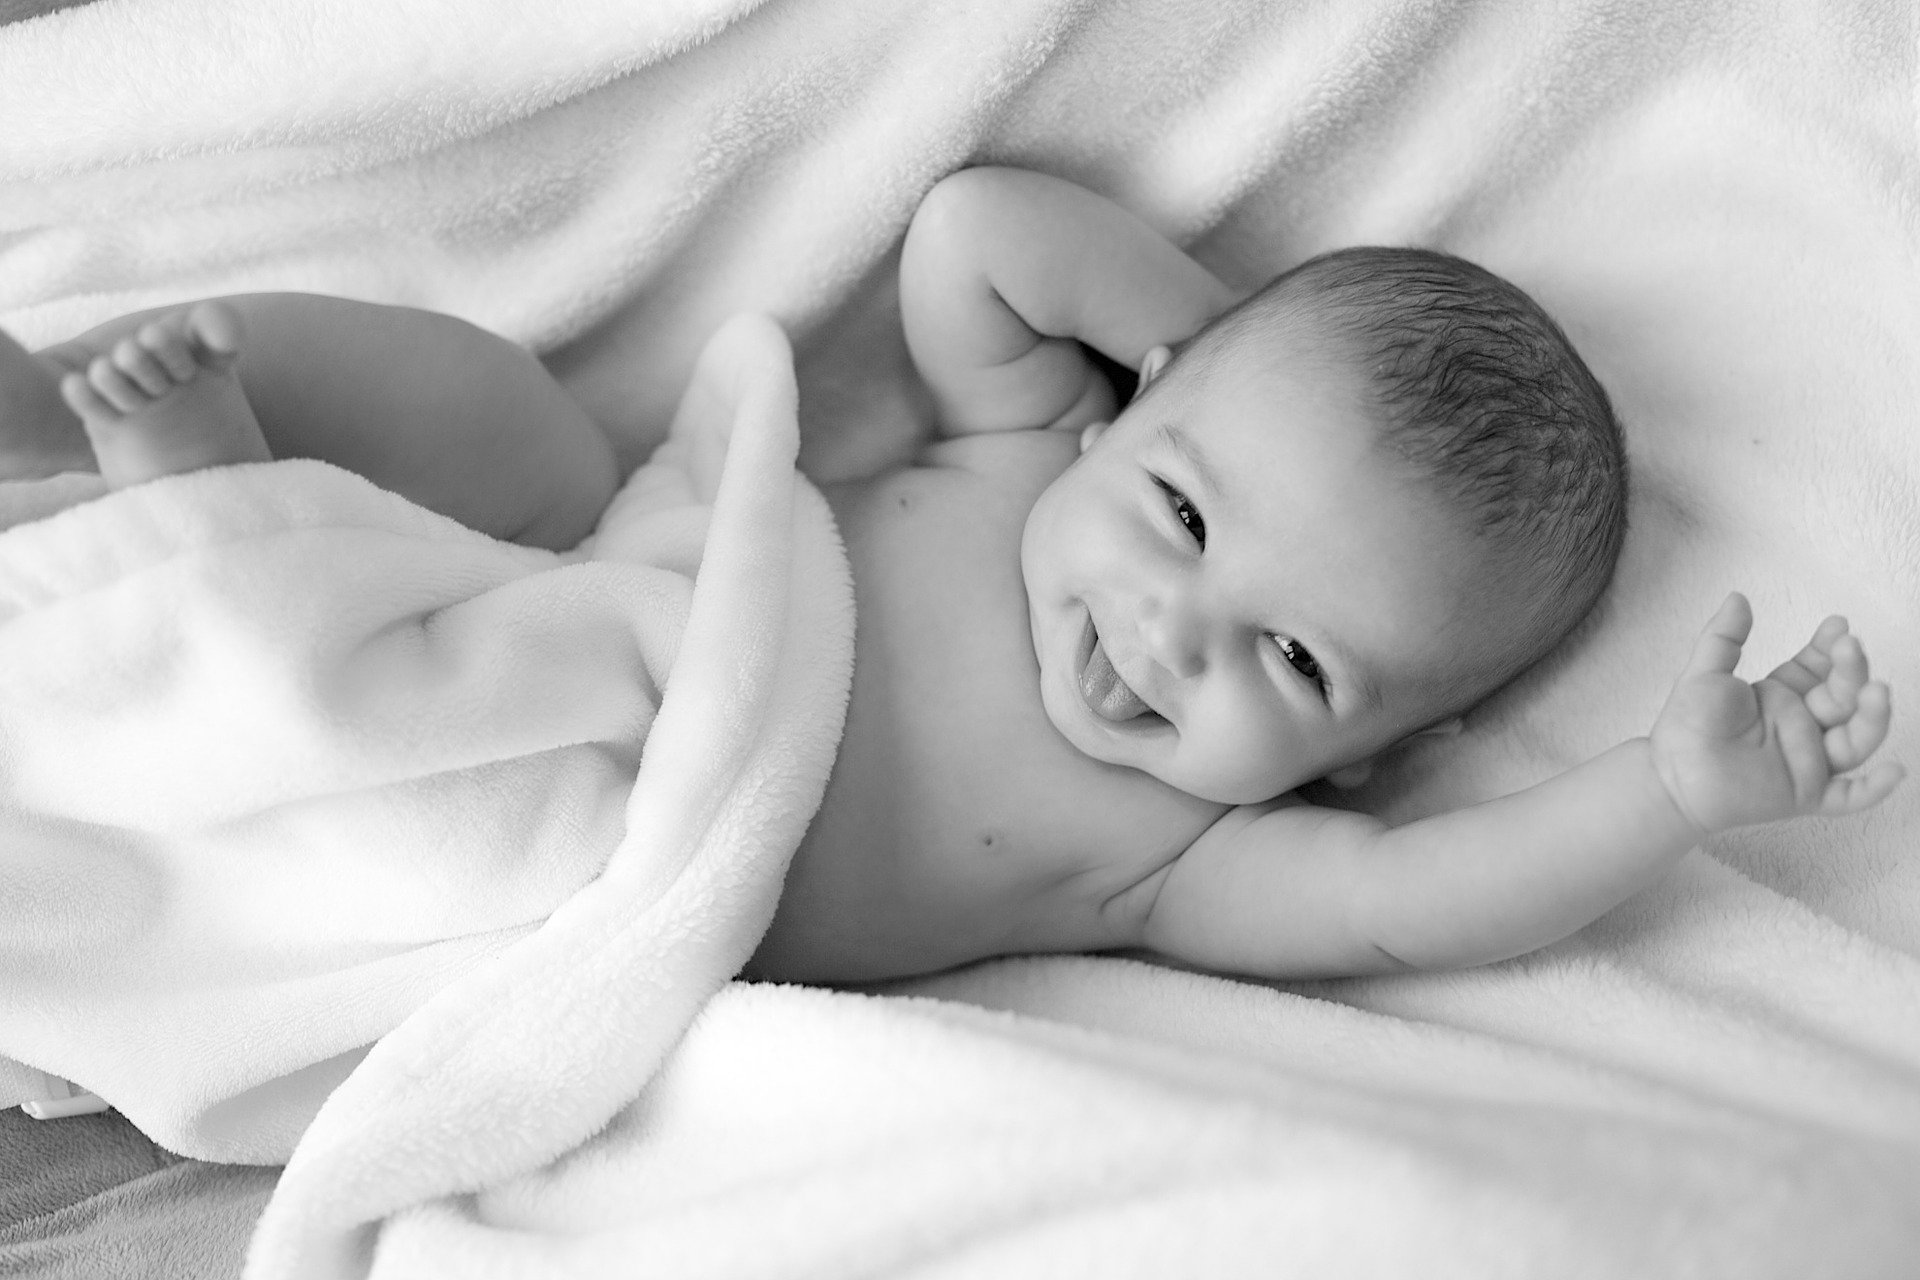
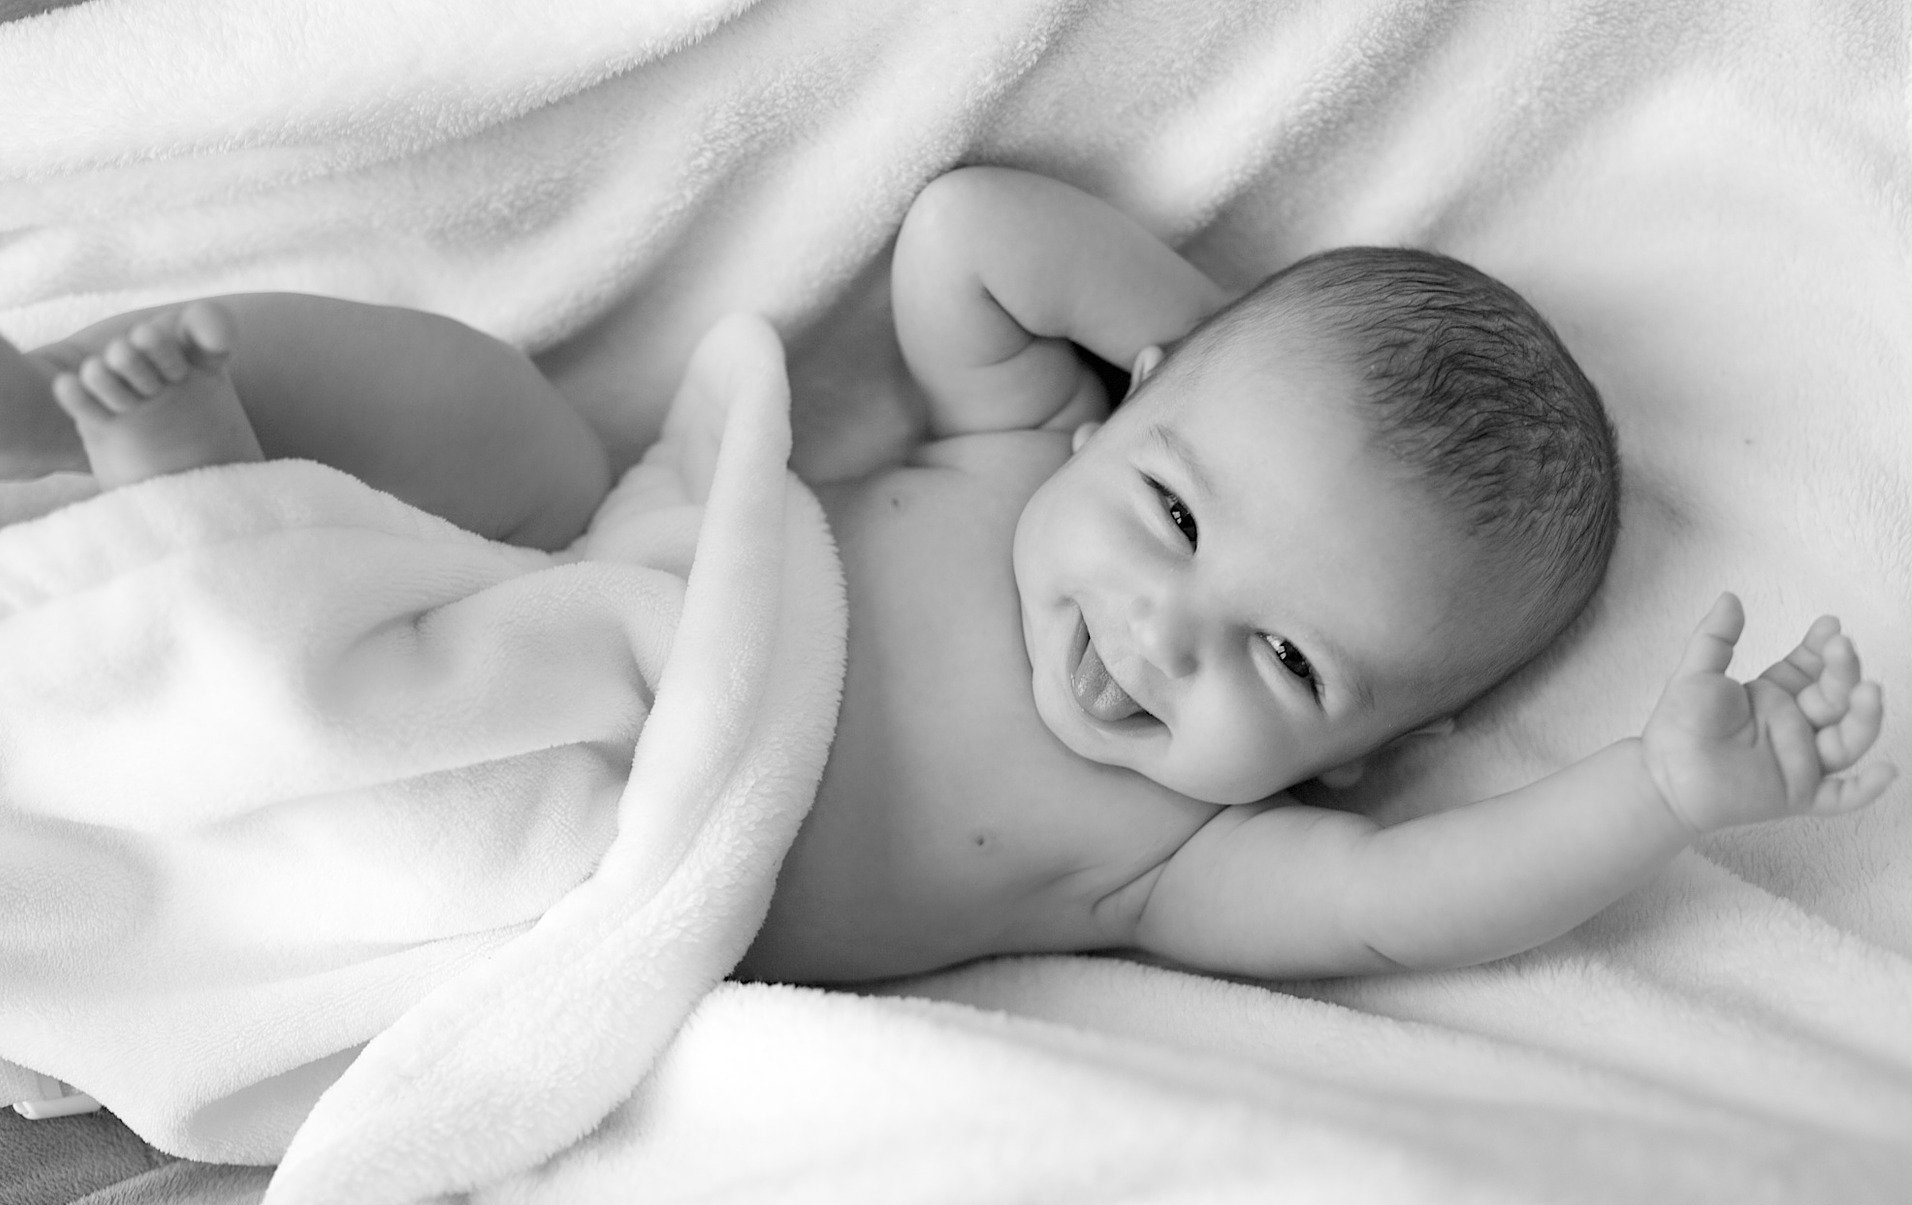
modified 3 photos and started the hinnasto page

diff --git a/html files/hinnasto.html b/html files/hinnasto.html
@@ -34,10 +34,36 @@
                 </div>
             </nav>
 
+    <!--hinnasto page texts-->
+    <div class="container">
+        <div class="row justify-content-center col">
+            <div class="col-sm-12 bg-light"><h2 class="h2-responsive font-weight-bold">Hinnasto</h2> <p>(kaikki hinnat sisältävät alv.24%)</p></div>
+            <div class="col-sm-6 bg-light">
+                <h4>Hääkuvaus</h4>
+                <ul>
+                    <li>12h/1490,-</li>
+                    <li>10h/1390,-</li>
+                    <li>8h/1290,-</li>
+                    <li>6h/ 1090,-</li>
+                </ul>
+                <p>Hääpotretit miljöössä: 450,- (Kuvausaika 2h) </p>
+                <p>Hääpotretit miljöössä sekä vihkimisen kuvaus: 550,- </p>
+            </div>
+            <div class="col-sm-6 bg-light">
+                <h4>Studiokuvaus</h4>
+                <ul>
+                    <li>12h/250,-</li>
+                    <li>10h/1390,-</li>
+                    <li>8h/1290,-</li>
+                    <li>6h/ 1090,-</li>
+                </ul>
+            </div>
+        </div>
+    </div>
     <!--contact sheet-->
-    <section class="contact-sheet mb-4">
+    <section class="contact-sheet mb-4" id="contact-sheet">
 
-        <h2 class="h1-responsive font-weight-bold text-center my-4">Ota meihin yhteyttä!</h2>
+        <h2 class="h2-responsive font-weight-bold text-center my-4">Ota meihin yhteyttä!</h2>
         <p class="text-center w-responsive mx-auto mb-5">Haluatko varata kuvausajan? Vai onko sinulla kenties jotain kysyttävää? Lähetä meille yhteydenottolomake ja otamme sinuun yhteyttä!</p>
 
         <div class="row">
@@ -92,7 +118,7 @@
 
             </div>
             <!--contact box contact info-->
-            <div class="col-md-3 text-center">
+            <div class="col-md-4 text-center">
                 <ul class="list-unstyled mb-0">
                     <li><i class="fas fa-phone mt-4 fa-2x"></i>
                         <p>050 3334445</p>

diff --git a/html files/index.html b/html files/index.html
@@ -77,10 +77,13 @@
             <div class="col-sm-6 bg-light"><h3>Valo Photography - ammattimaista valokuvaamista jo vuodesta 2015</h3>
                 <p>Valo Photographyn perusti vuonna 2015 kaksi ammattivalokuvaajaa, joilla oli jo tuolloin kova intohimo valokuvata erityisesti häitä ja hääpareja. Yhdessä meillä on noin seitsemän vuotta kokemusta valokuvaamisesta.
                     Toteutamme hääkuvauksen lisäksi henkilö-, tuote-, tapahtuma- ja studiovalokuvausta. Studiomme ja toimistomme sijaitsevat Helsingissä.
-                    </p>
+                </p>
             </div>
-            <div class="col-sm-6 bg-light"><h3>Järjestämme ennen jokaista valokuvausta ennakkotapaamisen asiakkaan kanssa</h3> <h4>- lue lisää Hinnasto-sivultamme</h4></div>
-            <div class="col-sm-12 bg-light"><h3>Ikuistamme arvokkaimmat muistosi upeiksi kuviksi!</h3></div>
+            <div class="col-sm-6 bg-light"><h3>Järjestämme ennen jokaista valokuvausta ennakkotapaamisen asiakkaan kanssa</h3> 
+            <h4>- lue lisää Hinnasto-sivultamme</h4>
+            </div>
+            <div class="col-sm-12 bg-light"><h3>Ikuistamme arvokkaimmat muistosi upeiksi kuviksi!</h3>
+            </div>
         </div>
     </div>
     <!--footer-->

diff --git a/html files/css/CostumeStyle.css b/html files/css/CostumeStyle.css
@@ -68,10 +68,14 @@ img:hover {
     box-shadow: 0 4px 8px 0 rgba(0, 0, 0, 0.2), 0 6px 20px 0 rgba(0, 0, 0, 0.19);
 }
 
-.h1-responsive {
+.h2-responsive {
     color: rgb(33, 87, 54);
 }
 
 .fa-phone, .fa-envelope {
     color: rgb(33, 87, 54);
+}
+
+ul {
+    list-style: none;
 }
